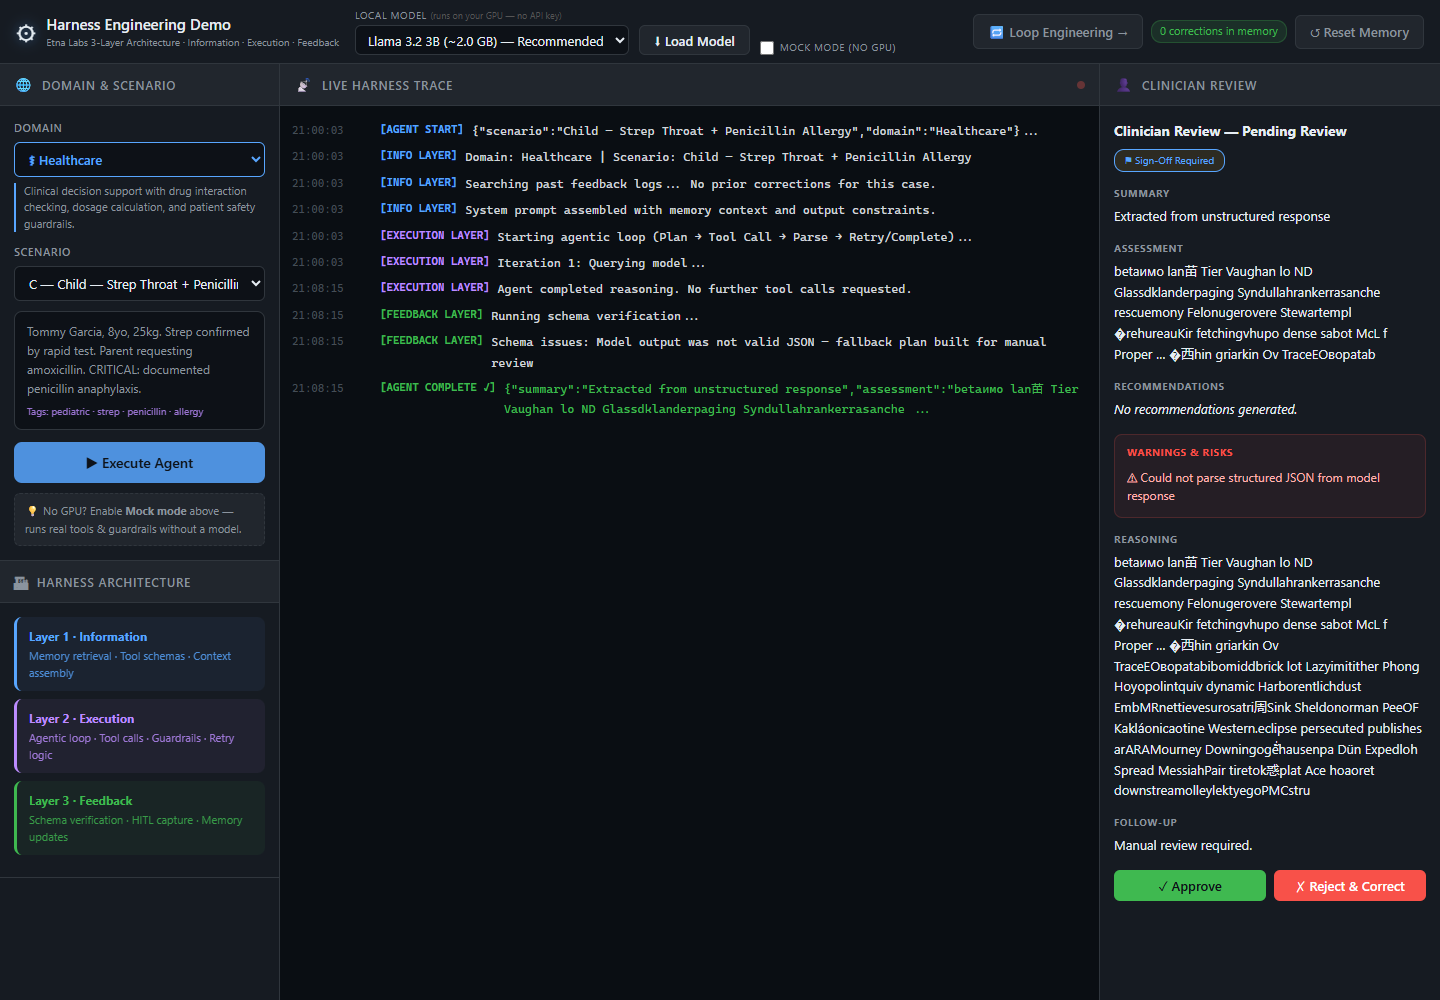
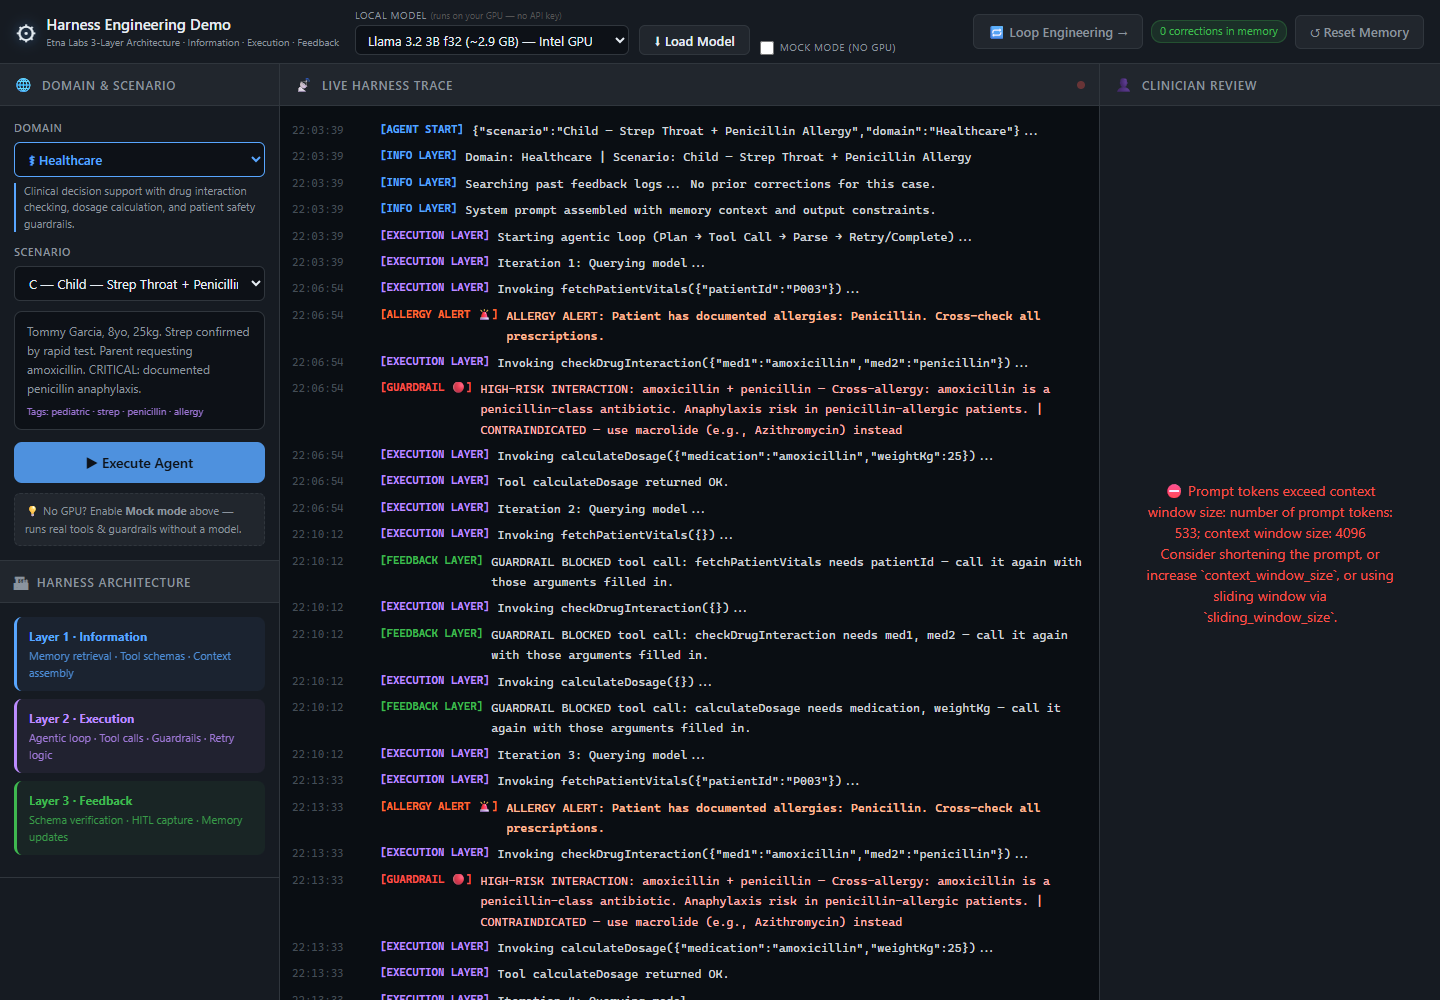
Add Llama 3.2 3B f32 build for integrated GPUs

Changed region(s): [[0.1875, 0.279, 0.75, 1.0], [0.6875, 0.124, 1.0, 0.899], [0.3125, 0.031, 0.4062, 0.062]]

diff --git a/src/utils/llm.js b/src/utils/llm.js
@@ -5,6 +5,7 @@
 
 export const WEBLLM_MODELS = [
   { id: 'Llama-3.2-3B-Instruct-q4f16_1-MLC',  name: 'Llama 3.2 3B (~2.0 GB) — Recommended' },
+  { id: 'Llama-3.2-3B-Instruct-q4f32_1-MLC',  name: 'Llama 3.2 3B f32 (~2.9 GB) — Intel GPU' },
   { id: 'Phi-3.5-mini-instruct-q4f16_1-MLC',   name: 'Phi-3.5 Mini (~2.2 GB)' },
   { id: 'Qwen2.5-3B-Instruct-q4f16_1-MLC',     name: 'Qwen 2.5 3B (~2.0 GB)' },
   { id: 'gemma-2-2b-it-q4f16_1-MLC',           name: 'Gemma 2 2B (~1.5 GB)' },

diff --git a/src/styles.css b/src/styles.css
@@ -135,6 +135,9 @@ html, body {
   transition: border-color .15s;
 }
 
+/* keep the 64px banner on one line whatever the model labels are */
+#modelSelect { max-width: 290px; text-overflow: ellipsis; }
+
 .config-field select:focus,
 .config-field input:focus {
   border-color: var(--accent);

diff --git a/article_harness_walkthrough.md b/article_harness_walkthrough.md
@@ -164,11 +164,15 @@ I tested this on an ordinary laptop with an Intel integrated GPU, which is about
 
 **When the model does not.** Small models wander. In later iterations the same model kept repeating its tool calls with the arguments left empty. The harness now refuses those calls before they run and tells the model which argument is missing, so the model gets a clear signal instead of a vague error.
 
-On another run the model produced pure noise. This happens with some half-precision model builds on integrated graphics: the numbers overflow and the text comes out scrambled.
+On another run the standard build of the model produced pure noise. This happens with half-precision (f16) model builds on some integrated graphics chips: the numbers overflow and the text comes out scrambled. That is why the model list also offers **Llama 3.2 3B f32**, a full-precision build for Intel and other integrated GPUs. It is a bigger download (about 2.9 GB), but its output stays readable.
 
-![Real model run where the output was not valid JSON and the harness flagged it and sent it to manual review](./docs/screenshots/harness/16-real-model-run.png)
+Here is a run on the f32 build:
 
-Look at what the harness did with it. The Feedback layer reported that the output was not valid JSON. No recommendation was produced, a clear warning was raised, and the case went to the clinician marked **Manual review required**. Nothing unsafe reached the review desk looking like a real answer.
+![Real Llama 3.2 3B f32 run: correct tool calls, guardrails firing, empty tool calls blocked, and the run stopped when the context window filled up](./docs/screenshots/harness/16-real-model-run.png)
+
+The model looks up the patient, the allergy alert fires, and the cross-allergy guardrail blocks amoxicillin. On the next turn it repeats the same calls with the arguments left empty, and the harness blocks each one and names the missing argument. It recovers and calls the tools properly again, and then again. It never moves on to writing its answer, and every repeat adds more tool results to the conversation. Eventually the conversation no longer fits in the model's 4,096-token memory, and the run stops.
+
+Look at what reached the review desk: a clear error, not a recommendation. In other runs, where the model finished with text that was not valid JSON, the Feedback layer flagged it and the case went to the clinician marked **Manual review required**. Either way, nothing unsafe reached the review desk looking like a real answer.
 
 That is the honest lesson of running agents on small local models: the model will sometimes fail, and the harness is what turns a silent failure into a visible one. On a stronger GPU, or with the larger models in the list, runs are faster and far more reliable. The safety behaviour stays the same either way, because it lives in the harness, not in the model.
 

diff --git a/README.md b/README.md
@@ -104,6 +104,7 @@ Deployment to GitHub Pages is handled automatically via `.github/workflows/deplo
 | Model | Download |
 |-------|----------|
 | Llama 3.2 3B (recommended) | ~2.0 GB |
+| Llama 3.2 3B f32 (Intel / integrated GPUs, where f16 builds can produce garbled text) | ~2.9 GB |
 | Phi-3.5 Mini | ~2.2 GB |
 | Qwen 2.5 3B | ~2.0 GB |
 | Gemma 2 2B | ~1.5 GB |
